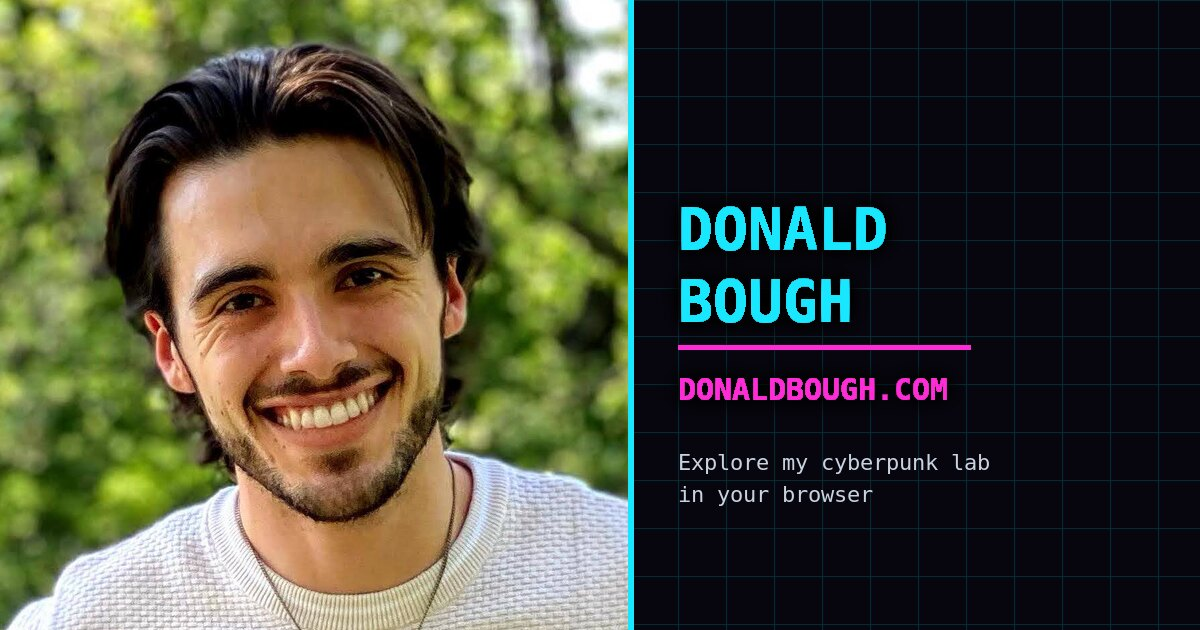
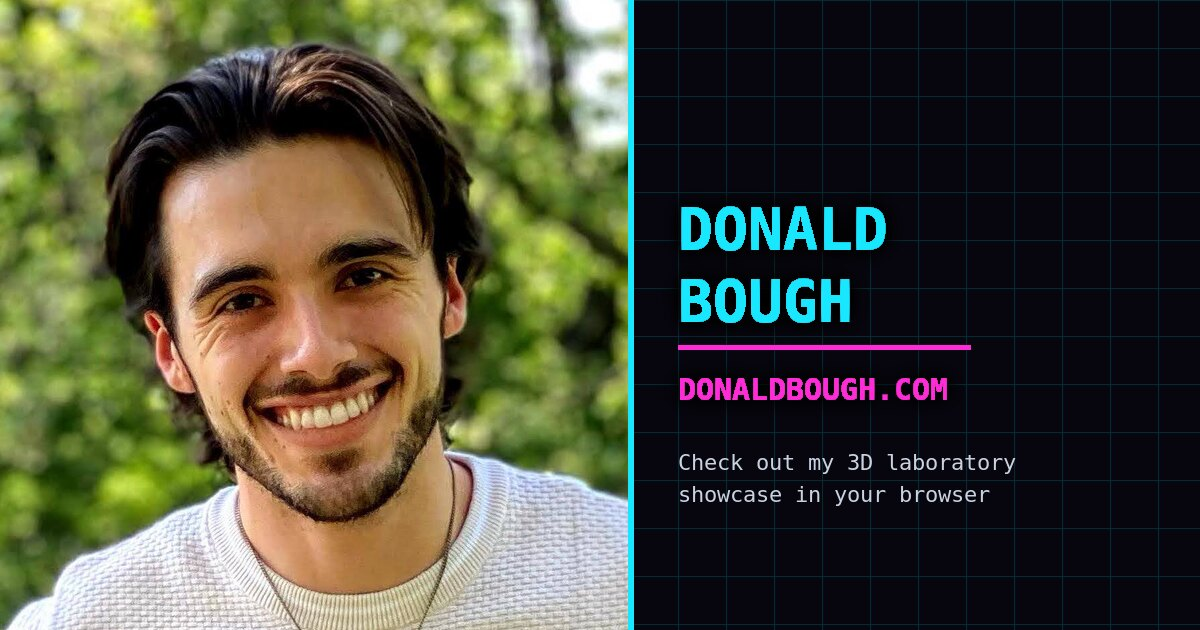
Use 'Check out my 3D laboratory showcase in your browser' for the link preview

Changed region(s): [[0.555, 0.7238, 0.8633, 0.8143]]

diff --git a/index.html b/index.html
@@ -14,7 +14,7 @@
     <meta property="og:type" content="website" />
     <meta property="og:site_name" content="Donald Bough" />
     <meta property="og:title" content="Donald Bough" />
-    <meta property="og:description" content="Explore my cyberpunk lab in your browser: a first-person 3D room built with Three.js and WebGPU." />
+    <meta property="og:description" content="Check out my 3D laboratory showcase in your browser." />
     <meta property="og:url" content="https://donaldbough.com/" />
     <meta property="og:image" content="https://donaldbough.com/assets/social/og-image.jpg" />
     <meta property="og:image:secure_url" content="https://donaldbough.com/assets/social/og-image.jpg" />
@@ -25,7 +25,7 @@
     <meta property="og:locale" content="en_US" />
     <meta name="twitter:card" content="summary_large_image" />
     <meta name="twitter:title" content="Donald Bough" />
-    <meta name="twitter:description" content="Explore my cyberpunk lab in your browser: a first-person 3D room built with Three.js and WebGPU." />
+    <meta name="twitter:description" content="Check out my 3D laboratory showcase in your browser." />
     <meta name="twitter:image" content="https://donaldbough.com/assets/social/og-image.jpg" />
     <meta name="twitter:image:alt" content="Donald Bough smiling, next to neon text reading DONALDBOUGH.COM" />
     <link rel="stylesheet" href="css/style.css" />
